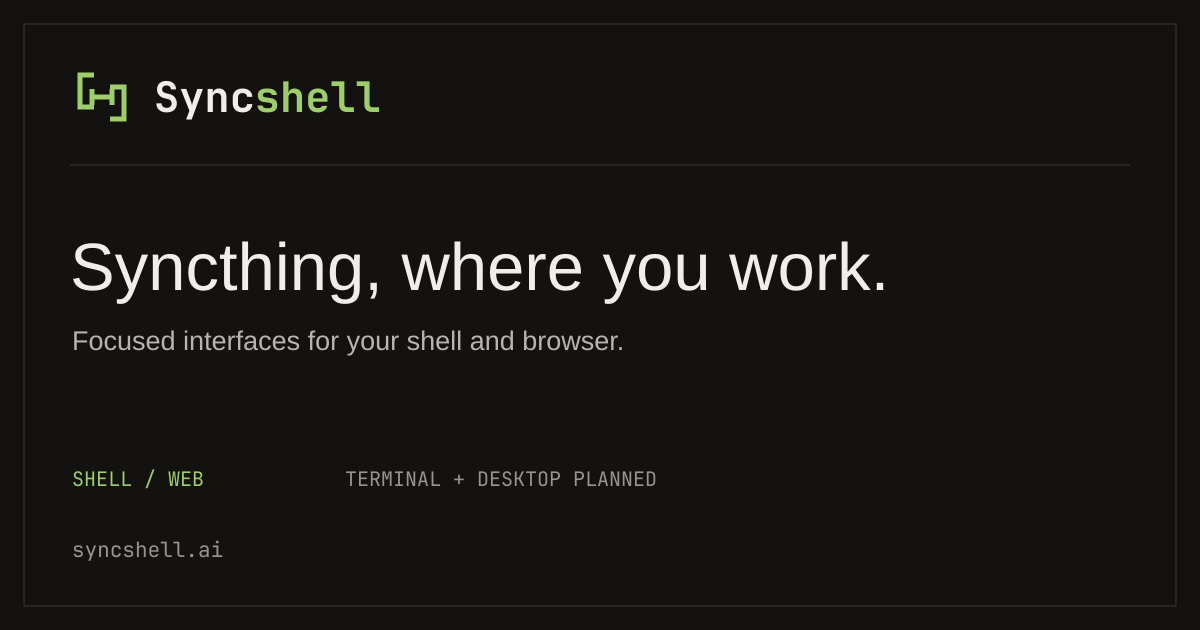
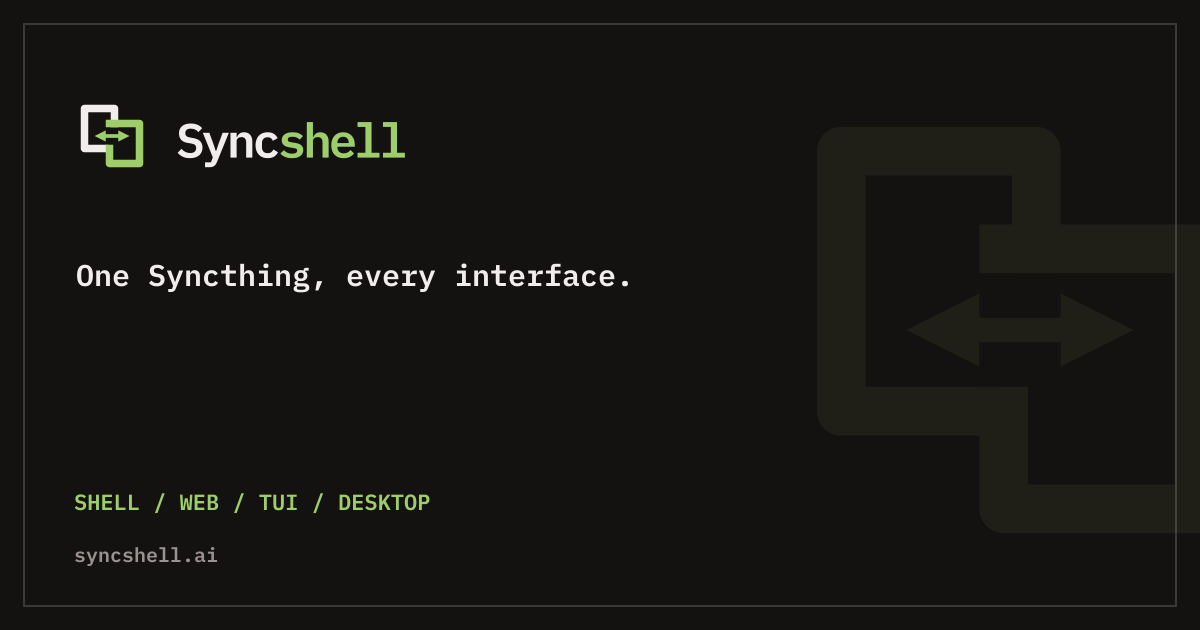
feat: apply syncshell brand v0.1.0
- align the website with the approved identity

- ship complete browser and social assets

diff --git a/src/styles/header.css b/src/styles/header.css
@@ -29,8 +29,20 @@
   width: 2rem;
   height: 2rem;
   flex: none;
-  color: var(--brand-accent);
 }
+
+.brand-symbol-primary {
+  stroke: var(--foreground);
+}
+
+.brand-symbol-accent {
+  stroke: var(--brand-accent);
+}
+
+.brand-symbol-arrow {
+  fill: var(--brand-accent);
+}
+
 .brand-wordmark {
   color: var(--foreground);
   font: 600 1.5rem/1 var(--font-mono);

diff --git a/README.md b/README.md
@@ -39,5 +39,16 @@ npm run dev
 Open `http://localhost:4321`. Run `npm run verify` before submitting changes.
 Updates to `main` are checked and automatically deployed.
 
+## Branding
+
+The site vendors the generated web and social exports from the local Syncshell
+brand release `v0.1.0`. Its canonical sources live in `../assets/`; the website
+keeps copies so independent clones and CI builds do not depend on a sibling
+checkout.
+
+The mixed-case `Syncshell` header remains live HTML text. `Sync` uses the main
+foreground, while `shell` and the second file use the exact brand green
+`#9ece6a` on every background.
+
 Presentation adapted from Omarchy QOL. See the
 [product media attribution](public/media/ATTRIBUTION.md) for source credits.
